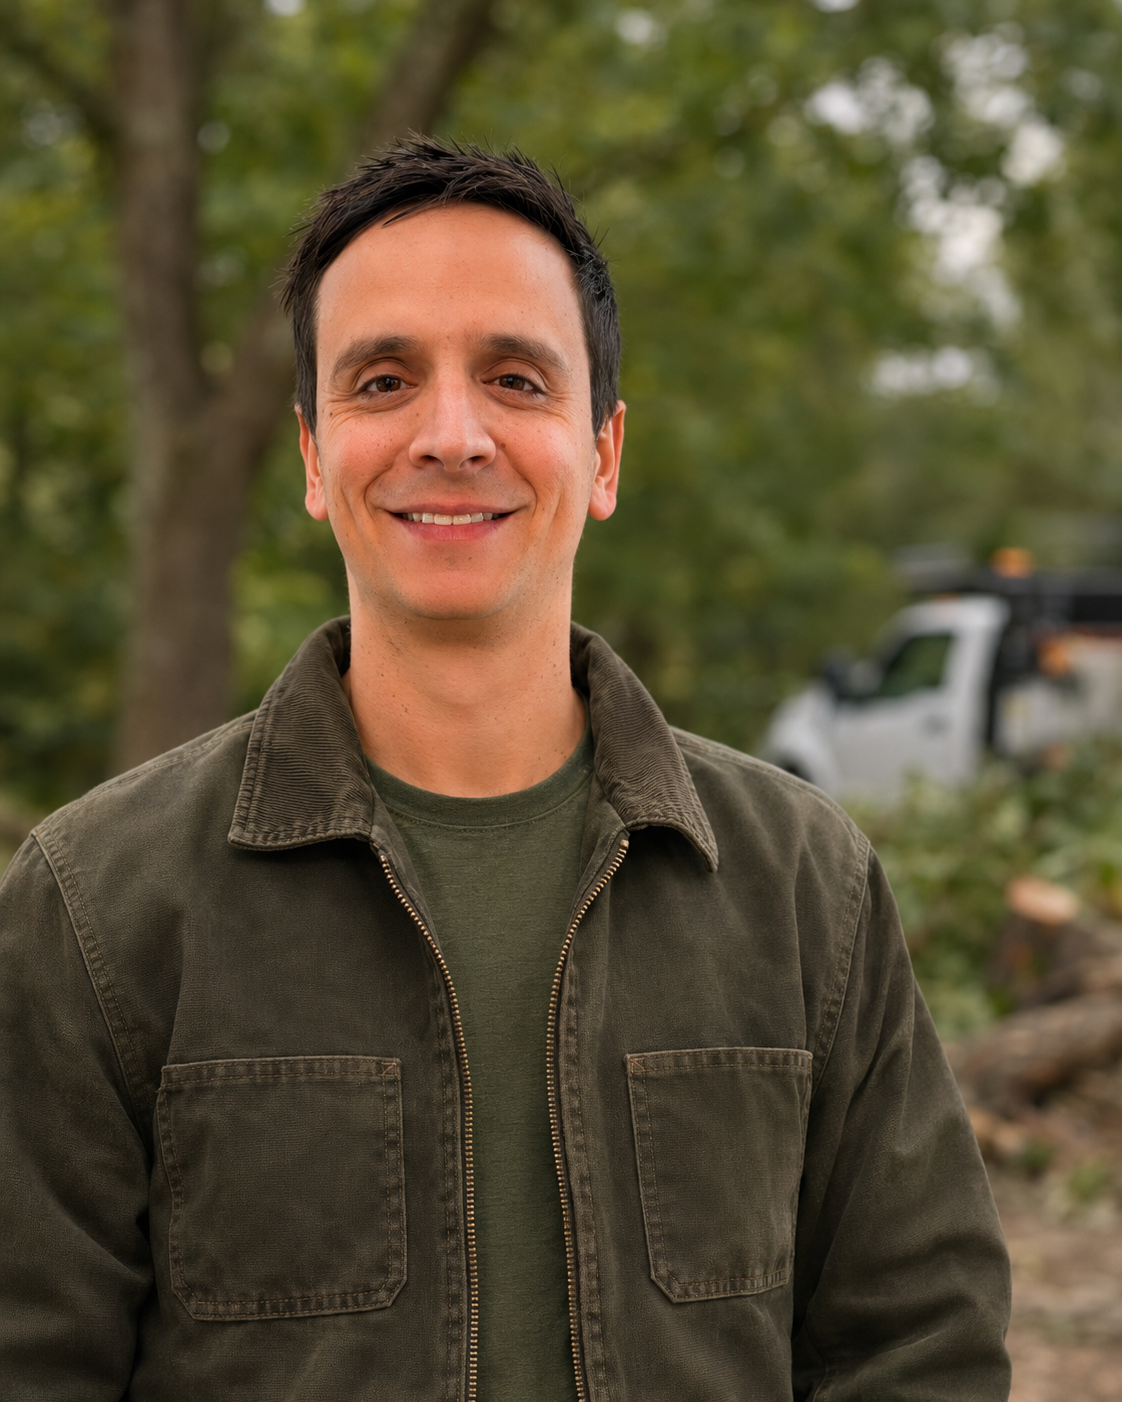
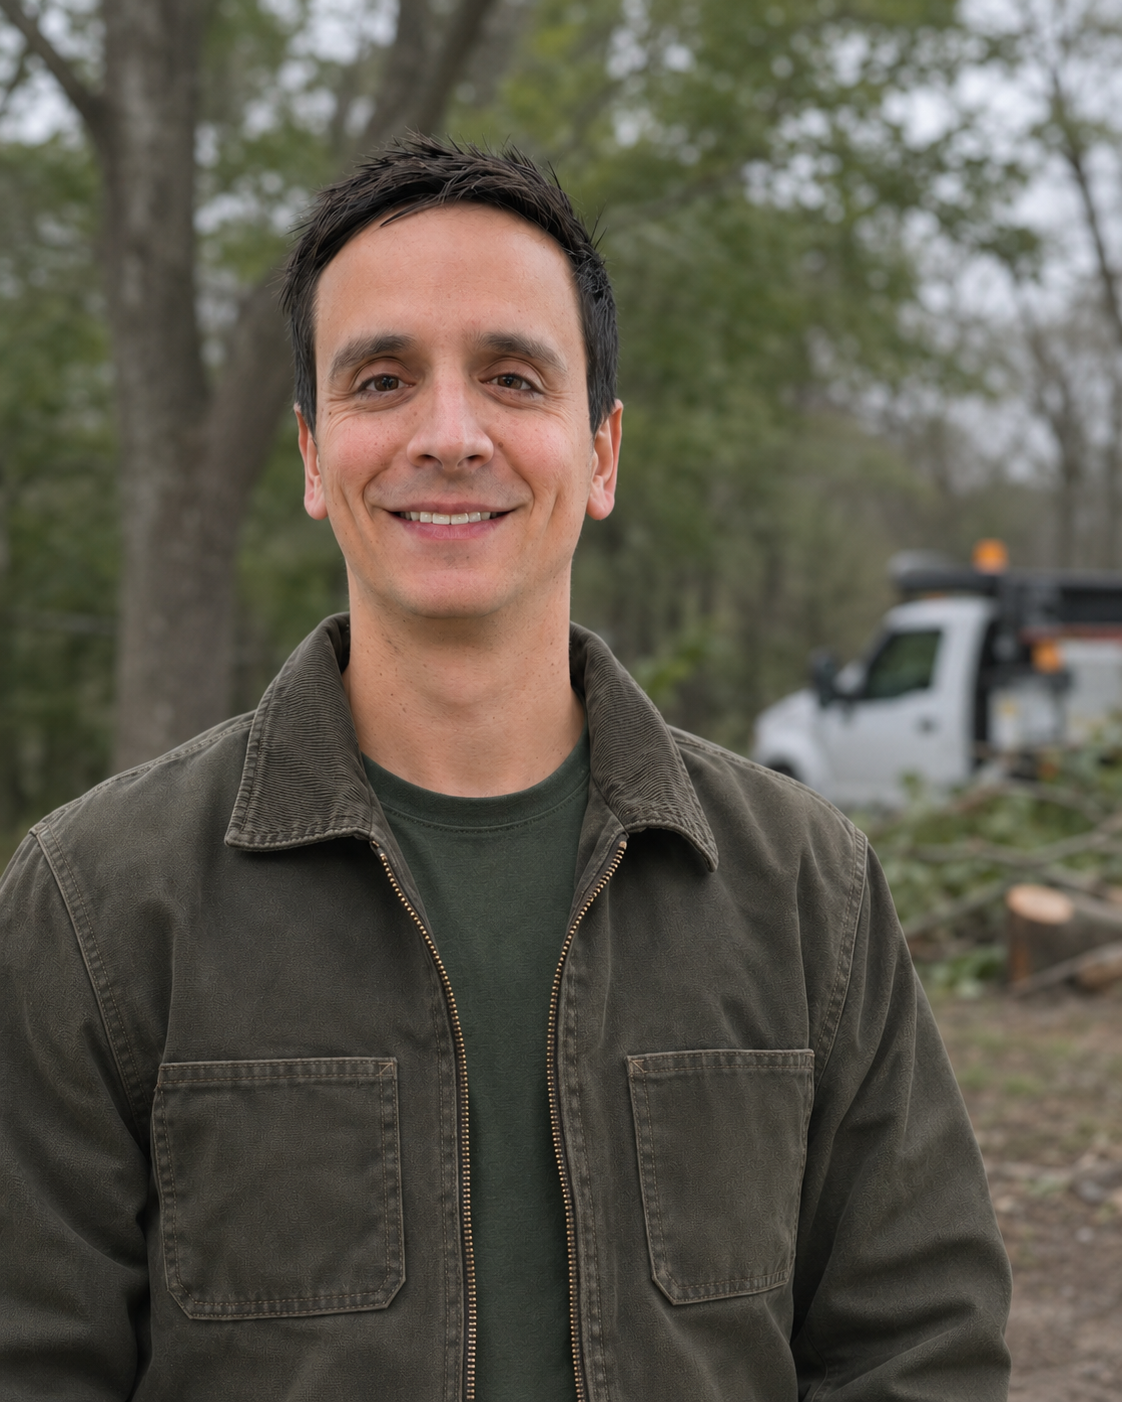
New founder story and updated founder photo

diff --git a/content.ts b/content.ts
@@ -374,9 +374,9 @@ export const about = {
   title: "I've run the saw. Now I run the phones.",
   /** One paragraph per entry. */
   copy: [
-    "I owned a tree service. I know how tight the margins are: fuel, insurance, equipment, payroll, and a slow month can wipe out a good one.",
-    "I hired multiple tree service marketing companies. Most took my money and produced nothing. The one that finally did? It cost $4,000+ for the website, up to $3,450 a month, and locked me into a 12-month contract.",
-    "So I built what I wished I could have bought: a website and Google setup that actually gets found, at a price that makes sense for a tree company, without trapping you in a year-long contract.",
+    "I owned a tree service company for years. I know how tight the margins are. Fuel, insurance, equipment, payroll, and one slow month can wipe out a good one.",
+    "I hired multiple tree service marketing companies. Most took my money and produced nothing. The one that finally worked? $4,000+ for a new website, $3,450 a month, and a 12-month contract I couldn't get out of.",
+    "After I sold my tree company, I built what I wished I could have bought all those years: a website and Google setup that actually gets found, at a price that makes sense for a tree company, with no year-long contract. Modern tools let us do the work of a big agency without charging like one.",
   ],
   signature: "— Ben Muir, Founder",
   /** DESKTOP: one bold line with what Ben paid, then its source line. */
